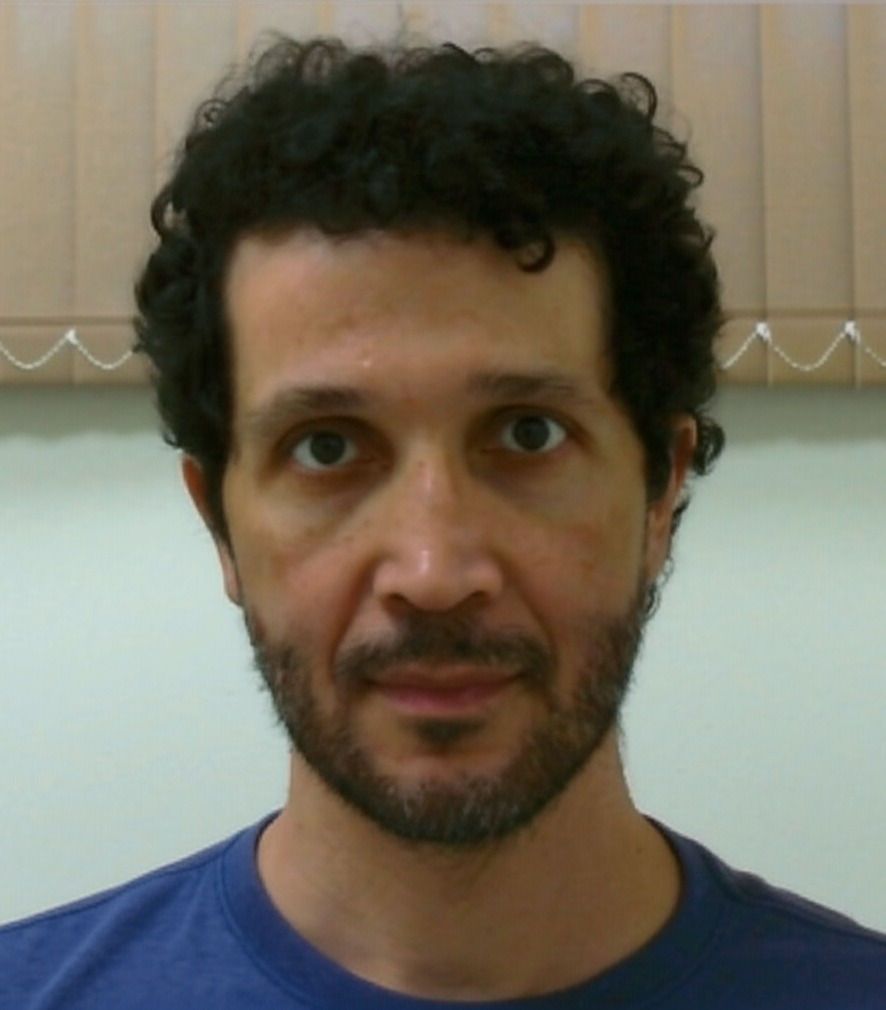
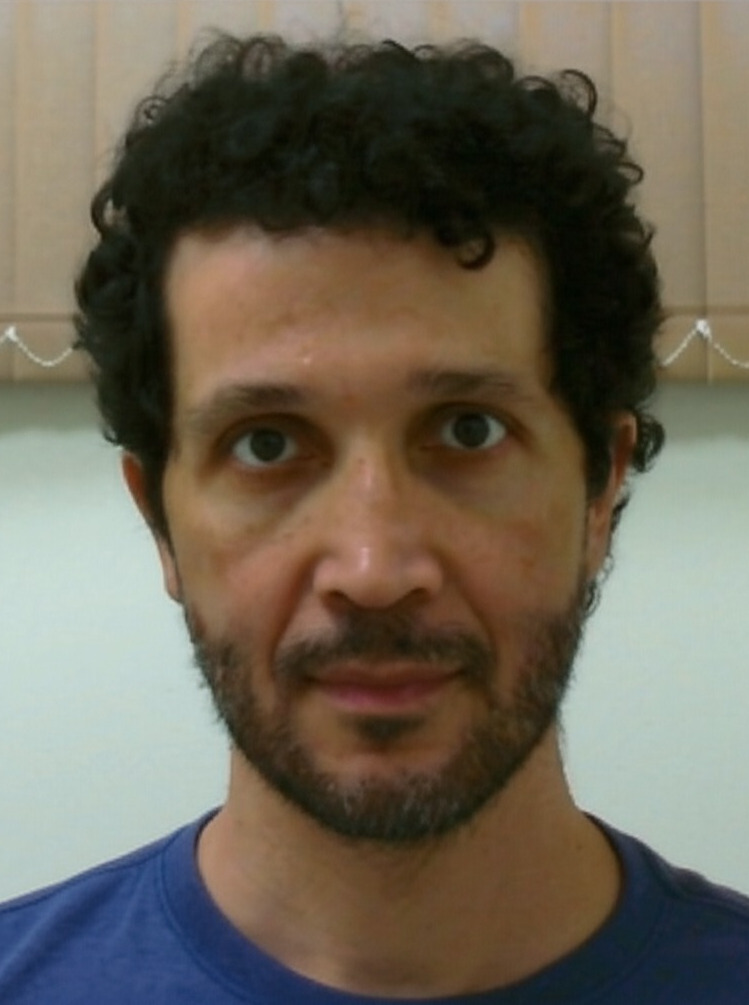
fixed publications

diff --git a/_pages/people.md b/_pages/people.md
@@ -62,3 +62,12 @@ horizontal: true
 </div>
 
 <h2 class="category">Alumni</h2>
+
+<ul class="alumni-list">
+  {% assign alumni = site.people | where: "category", "alumni" | sort: "title" %}
+  {% for person in alumni %}
+    <li>
+      <a href="{{ person.redirect }}">{{ person.title }}</a>
+    </li>
+  {% endfor %}
+</ul>

diff --git a/_people/machado.md b/_people/machado.md
@@ -3,7 +3,7 @@ layout: page
 title: Arthur Torres Lavenère Machado
 img: assets/img/people/machado.gif
 importance: 3
-category: undergraduate
+category: alumni
 disable_link: false
 redirect: http://lattes.cnpq.br/0168579563597584
 ---

diff --git a/_people/stefaniak.md b/_people/stefaniak.md
@@ -1,0 +1,13 @@
+---
+layout: page
+title: Antoniel Kleber Stefaniak
+img: 
+importance: 3
+category: alumni
+disable_link: false
+redirect: http://lattes.cnpq.br/2198876408935118
+---
+
+
+
+

diff --git a/_pages/publications.md b/_pages/publications.md
@@ -19,3 +19,5 @@ nav_order: 2
 {% bibliography %}
 
 </div>
+
+
